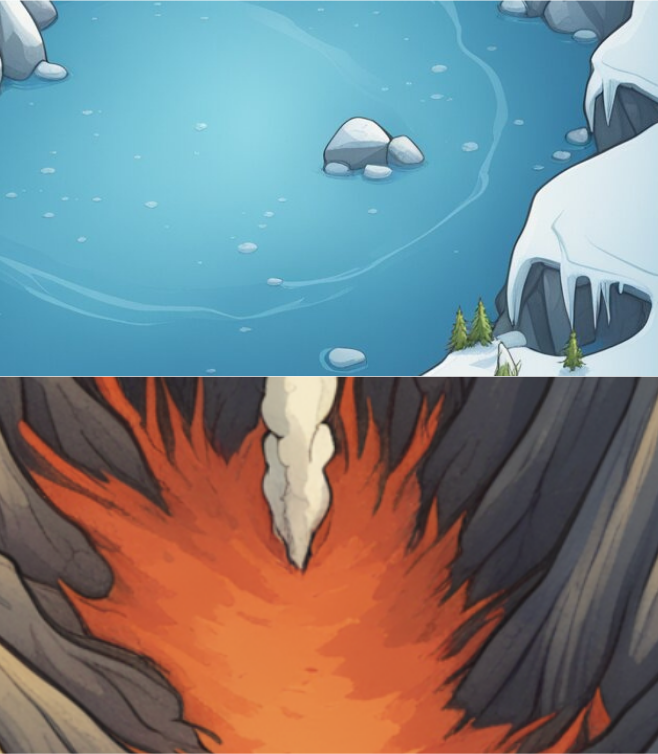
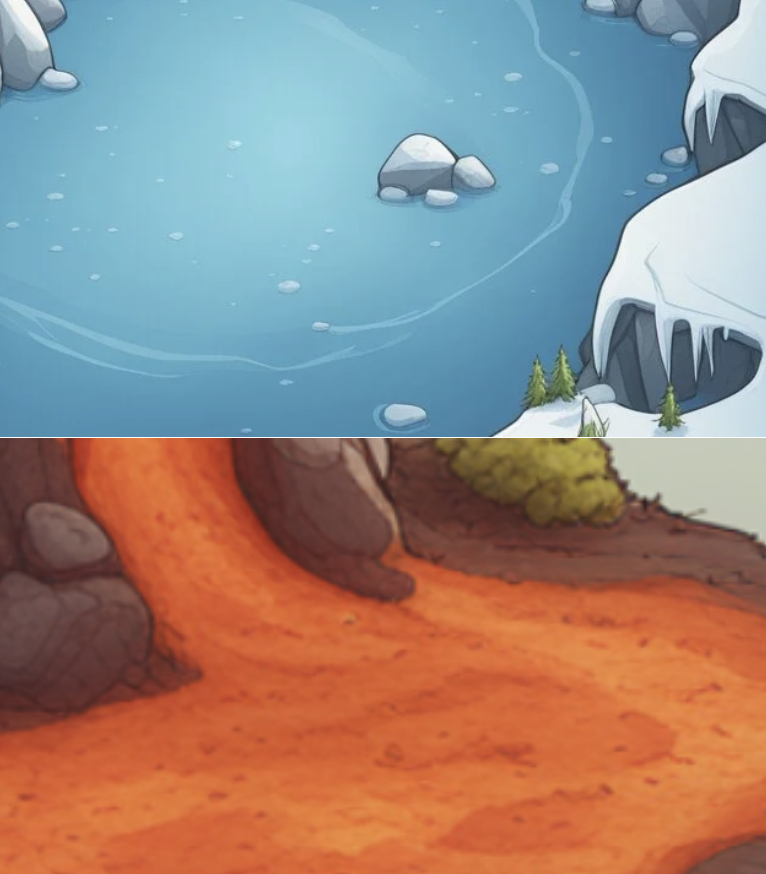
added new player sprite

diff --git a/Objects/player.py b/Objects/player.py
@@ -1,9 +1,15 @@
 import pygame
+import math
 
 class Player(pygame.sprite.Sprite):
-    def __init__(self, playersurf, position, speed, bullet, bomb, particle, bullet_group, enemygrp):
+    def __init__(self, playertuple, position, speed, bullet, bomb, particle, bullet_group, enemygrp):
         super().__init__()
-        self.image = playersurf
+        self.state = "cold"
+
+        self.firesprite = playertuple[0]
+        self.icesprite = playertuple[1]
+
+        self.checktexture()
         self.rect = self.image.get_rect(center=position)
 
         self.velocity = pygame.math.Vector2()
@@ -31,7 +37,7 @@ class Player(pygame.sprite.Sprite):
         self.bomb_timer = 0
         self.shoot_timer = 0
 
-        self.state = "cold"
+
 
         self.changing = False
 
@@ -68,7 +74,7 @@ class Player(pygame.sprite.Sprite):
         mouse_pos = pygame.mouse.get_pos()
         bullet_dir = pygame.math.Vector2(mouse_pos) - self.get_centre()
         bullet_dir = bullet_dir.normalize()
-        bullet = self.bullet(self.get_centre(), bullet_dir * self.shoot_force, self.enemygrp)
+        bullet = self.bullet(self.get_centre(), bullet_dir * self.shoot_force, self.enemygrp, self.state)
         self.bulletgrp.add(bullet)
     def shootbomb(self, dt):
         self.bomb_timer += dt
@@ -95,10 +101,14 @@ class Player(pygame.sprite.Sprite):
 
 
     def update(self, dt):
+        self.checktexture()
+        self.rotimage = pygame.transform.rotate(self.image, self.getangle())
+        self.rotrect = self.rotimage.get_rect(center=tuple(self.get_centre()))
         self.move()
         self.shoot(dt)
         self.shootbomb(dt)
         self.thrower()
+
 
 
     def recoil(self):
@@ -116,3 +126,16 @@ class Player(pygame.sprite.Sprite):
 
         self.rect.x += self.recoilvelocity[0]
         self.rect.y += self.recoilvelocity[1]
+
+    def getangle(self):
+        direction = pygame.math.Vector2(pygame.mouse.get_pos()) - self.get_centre()
+        return math.degrees(math.atan2(direction.x, direction.y)) + 180
+
+    def draw(self, screen):
+        screen.blit(self.rotimage, self.rotrect)
+
+    def checktexture(self):
+        if self.state == "hot":
+            self.image = self.firesprite
+        elif self.state == "cold":
+            self.image = self.icesprite

diff --git a/UI/background.py b/UI/background.py
@@ -4,8 +4,8 @@ import math
 class Background(pygame.sprite.Sprite):
     def __init__(self, player):
         super().__init__()
-        self.ice = images.renderbullets()[0]
-        self.fire = images.renderbullets()[1]
+        self.ice = pygame.transform.scale(images.renderbullets()[0], (32,32))
+        self.fire = pygame.transform.scale(images.renderbullets()[1], (32,32))
 
         self.bg = images.renderbackground()
         self.bgrect = self.bg.get_rect(topleft=(0,0))
@@ -25,7 +25,7 @@ class Background(pygame.sprite.Sprite):
         for rect in self.transitionlist:
             screen.blit(self.image, rect)
 
-        print(self.bgrect.y)
+
     def transition(self):
         self.changing = self.player.changing
 
@@ -39,21 +39,22 @@ class Background(pygame.sprite.Sprite):
         if self.state == "hot" and not self.transitioned:
 
             self.image = self.fire
-            for i in range(0,100):
-                self.firerect = self.image.get_rect(center=(i*12, 600))
+            for i in range(0,50):
+                self.firerect = self.image.get_rect(center=(i*26, 600))
                 self.transitionlist.append(self.firerect)
             self.transitioned = True
 
 
         elif self.state == "cold" and not self.transitioned:
             self.image = self.ice
-            for i in range(0,100):
+            for i in range(0,50):
 
-                self.icerect = self.image.get_rect(center=(i*12, 0))
+                self.icerect = self.image.get_rect(center=(i*26, 0))
 
 
                 self.transitionlist.append(self.icerect)
             self.transitioned = True
+
 
 
 
@@ -75,7 +76,7 @@ class Background(pygame.sprite.Sprite):
         elif self.state == "cold":
             for item in self.transitionlist:
 
-                self.bgrect.y = item.y-600
+                self.bgrect.y = item.y-572
                 item.y += 8
 
                 if self.bgrect.y > 0:

diff --git a/images.py b/images.py
@@ -5,9 +5,11 @@ def renderbackground():
     bg = pygame.transform.scale(bg, (1000,1200))
     return bg
 def renderplayer():
-    player = pygame.image.load("Graphics/player.png").convert_alpha()
-    player = pygame.transform.scale(player, (35,35))
-    return player
+    fireplayer = pygame.image.load("Graphics/firesprite.png").convert_alpha()
+    fireplayer = pygame.transform.scale(fireplayer, (75,75))
+    iceplayer = pygame.image.load("Graphics/icesprite.png").convert_alpha()
+    iceplayer = pygame.transform.scale(iceplayer, (75,75))
+    return (fireplayer, iceplayer)
 
 def renderbullets():
 
@@ -15,7 +17,11 @@ def renderbullets():
     ice = pygame.image.load("Graphics/ice.png").convert_alpha()
     fire = pygame.image.load("Graphics/fire.png").convert_alpha()
 
-    bomb = pygame.image.load("Graphics/coldbomb.png").convert_alpha()
-    bomb = pygame.transform.scale(bomb, (50,15))
-    return (ice, fire, bomb)
+    icebomb = pygame.image.load("Graphics/coldbomb.png").convert_alpha()
+    icebomb = pygame.transform.scale(icebomb, (50,15))
+
+    firebomb = pygame.image.load("Graphics/firebomb.png").convert_alpha()
+    firebomb = pygame.transform.scale(firebomb, (50,15))
+
+    return (ice, fire, icebomb, firebomb)
 

diff --git a/main.py b/main.py
@@ -16,7 +16,7 @@ screen = pygame.display.set_mode((1000,600))
 pygame.display.set_caption("Game Jam")
 clock = pygame.time.Clock()
 
-playersurf = images.renderplayer()
+playertuple = images.renderplayer()
 
 
 
@@ -24,7 +24,7 @@ bulletgrp = pygame.sprite.Group()
 
 enemygrp = pygame.sprite.Group(Enemy((600,300)))
 
-playergrp = pygame.sprite.GroupSingle(Player(playersurf, (500,500), 1.4, Objects.bullet.Bullet, Objects.bomb.Bomb, Objects.particle.Particle, bulletgrp, enemygrp))
+playergrp = pygame.sprite.GroupSingle(Player(playertuple,(500,500), 1.4, Objects.bullet.Bullet, Objects.bomb.Bomb, Objects.particle.Particle, bulletgrp, enemygrp))
 
 uigrp = pygame.sprite.Group(Background(playergrp.sprites()[0]), Switchbar(playergrp.sprites()[0], (700,50), 5))
 
@@ -41,7 +41,6 @@ while run:
     for obj in uigrp.sprites():
         obj.draw(screen)
 
-    playergrp.draw(screen)
 
 
     bulletgrp.draw(screen)
@@ -56,6 +55,8 @@ while run:
 
     playergrp.update(dt)
 
+    for obj in playergrp.sprites():
+        obj.draw(screen)
 
 
 

diff --git a/Objects/bullet.py b/Objects/bullet.py
@@ -4,13 +4,18 @@ from Objects import tags
 
 import math
 class Bullet(pygame.sprite.Sprite):
-    def __init__(self, position, velocity, enemygrp: pygame.sprite.Group):
+    def __init__(self, position, velocity, enemygrp: pygame.sprite.Group, state):
         super().__init__()
-        self.image = pygame.transform.scale(images.renderbullets()[0], (10,10))
-        self.rect = self.image.get_rect(center=tuple(position))
+
         self.velocity = pygame.math.Vector2(velocity)
         self.enemygrp = enemygrp
         self.damage = 1
+        self.state = state
+        if self.state == "hot":
+            self.image = images.renderbullets()[1]
+        elif self.state == "cold":
+            self.image = images.renderbullets()[0]
+        self.rect = self.image.get_rect(center=tuple(position))
     def update(self, dt):
         self.attack()
         self.move()

diff --git a/Objects/bomb.py b/Objects/bomb.py
@@ -8,12 +8,16 @@ class Bomb(pygame.sprite.Sprite):
     def __init__(self, position, velocity, bulletgrp, enemygrp, state):
         super().__init__()
         self.velocity = pygame.math.Vector2(velocity)
-        self.image = pygame.transform.rotate(images.renderbullets()[2], self.getangle()+90)
-        self.rect = self.image.get_rect(center=position)
+
         self.damage = 1
         self.bulletgrp = bulletgrp
         self.enemygrp = enemygrp
         self.state = state
+        if self.state == "hot":
+            self.image = pygame.transform.rotate(images.renderbullets()[3], self.getangle() + 90)
+        elif self.state == "cold":
+            self.image = pygame.transform.rotate(images.renderbullets()[2], self.getangle() + 90)
+        self.rect = self.image.get_rect(center=position)
     def update(self, dt):
         self.move()
         self.attack()

diff --git a/Enemies/sampleenemy.py b/Enemies/sampleenemy.py
@@ -9,5 +9,5 @@ class Enemy(pygame.sprite.Sprite, tags.Damageable):
         self.rect = self.image.get_rect(center=self.pos)
 
     def damage(self, amount):
-        print("damaged", amount)
+        amount += 1
 
